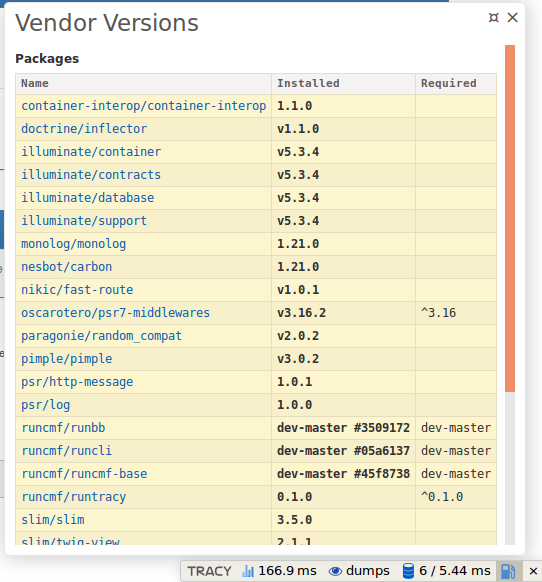
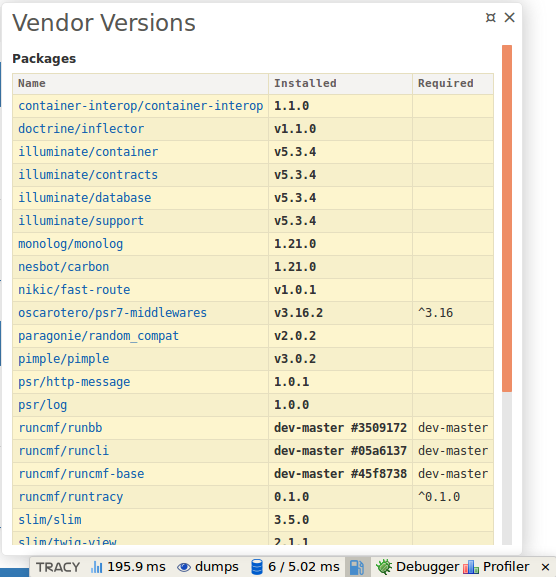
add XDebug Helper

Changed region(s): [[0.0, 0.0, 1.0, 1.0], [0.7675, 0.5303, 0.8561, 0.5615]]

diff --git a/src/RunTracy/Helpers/XDebugHelper.php b/src/RunTracy/Helpers/XDebugHelper.php
@@ -1,0 +1,45 @@
+<?php
+/**
+ * Copyright 2016 1f7.wizard@gmail.com
+ *
+ * Licensed under the Apache License, Version 2.0 (the "License");
+ * you may not use this file except in compliance with the License.
+ * You may obtain a copy of the License at
+ *
+ *     http://www.apache.org/licenses/LICENSE-2.0
+ *
+ * Unless required by applicable law or agreed to in writing, software
+ * distributed under the License is distributed on an "AS IS" BASIS,
+ * WITHOUT WARRANTIES OR CONDITIONS OF ANY KIND, either express or implied.
+ * See the License for the specific language governing permissions and
+ * limitations under the License.
+ */
+
+
+namespace RunTracy\Helpers;
+
+use Tracy\IBarPanel;
+
+class XDebugHelper implements IBarPanel
+{
+    private $ideKey;
+
+
+    public function __construct($ideKey = 'netbeans-xdebug')
+    {
+        $this->ideKey = $ideKey;
+    }
+
+    public function getPanel()
+    {
+        return FALSE;
+    }
+
+    public function getTab()
+    {
+        $ideKey = $this->ideKey;
+        ob_start();
+        require @realpath( __DIR__ ) .'../../Templates/xdebug-helper.tab.phtml';
+        return ob_get_clean();
+    }
+}

diff --git a/src/RunTracy/Middlewares/TracyMiddleware.php b/src/RunTracy/Middlewares/TracyMiddleware.php
@@ -26,6 +26,7 @@ use RunTracy\Helpers\SlimEnvironmentPanel;
 use RunTracy\Helpers\SlimRequestPanel;
 use RunTracy\Helpers\SlimResponsePanel;
 use RunTracy\Helpers\VendorVersionsPanel;
+use RunTracy\Helpers\XDebugHelper;
 
 use Illuminate\Database\Capsule\Manager as DB;
 
@@ -80,6 +81,9 @@ class TracyMiddleware
         }
         if ($cfg['showVendorVersionsPanel']) {
             Debugger::getBar()->addPanel(new VendorVersionsPanel(  ));
+        }
+        if ($cfg['showXDebugHelper']) {
+            Debugger::getBar()->addPanel(new XDebugHelper( $cfg['XDebugHelperIDEKey'] ));
         }
 
         return $res;

diff --git a/Example/Settings.php b/Example/Settings.php
@@ -100,7 +100,9 @@ return [
             'showRawEloquentORMLog' => 0,
             'showTwigPanel' => 1,
             'showRawTwigProfiler' => 0,
-            'showVendorVersionsPanel' => 1
+            'showVendorVersionsPanel' => 1,
+            'showXDebugHelper' => 1,
+            'XDebugHelperIDEKey' => 'netbeans-xdebug'
         ]
     ]
 ];

diff --git a/README.md b/README.md
@@ -10,7 +10,9 @@ SlimResponsePanel - RAW data Slim Response,
 SlimRouterPanel - RAW data Slim Router,  
 EloquentORMPanel - Eloquent ORM Query / Bindings log, also can show Raw Eloquent ORM Log  
 TwigPanel - Twig_Profiler_Dumper_Html(), also can show Raw Twig Profiler Dump  
-VendorVersionsPanel - fork from https://github.com/milo/vendor-versions
+VendorVersionsPanel - version info from composer.json and composer.lock (fork from https://github.com/milo/vendor-versions)  
+XDebugHelper - start and stop a Xdebug session (fork from https://github.com/jsmitka/Nette-XDebug-Helper)
+
 
 all configurable
 
@@ -84,7 +86,9 @@ return [
             'showRawEloquentORMLog' => 0,
             'showTwigPanel' => 1,
             'showRawTwigProfiler' => 0,
-            'showVendorVersionsPanel' => 1
+            'showVendorVersionsPanel' => 1,
+            'showXDebugHelper' => 1,
+            'XDebugHelperIDEKey' => 'netbeans-xdebug'
         ]
 ```
 see config examples in vendor/runcmf/runtracy/Example
